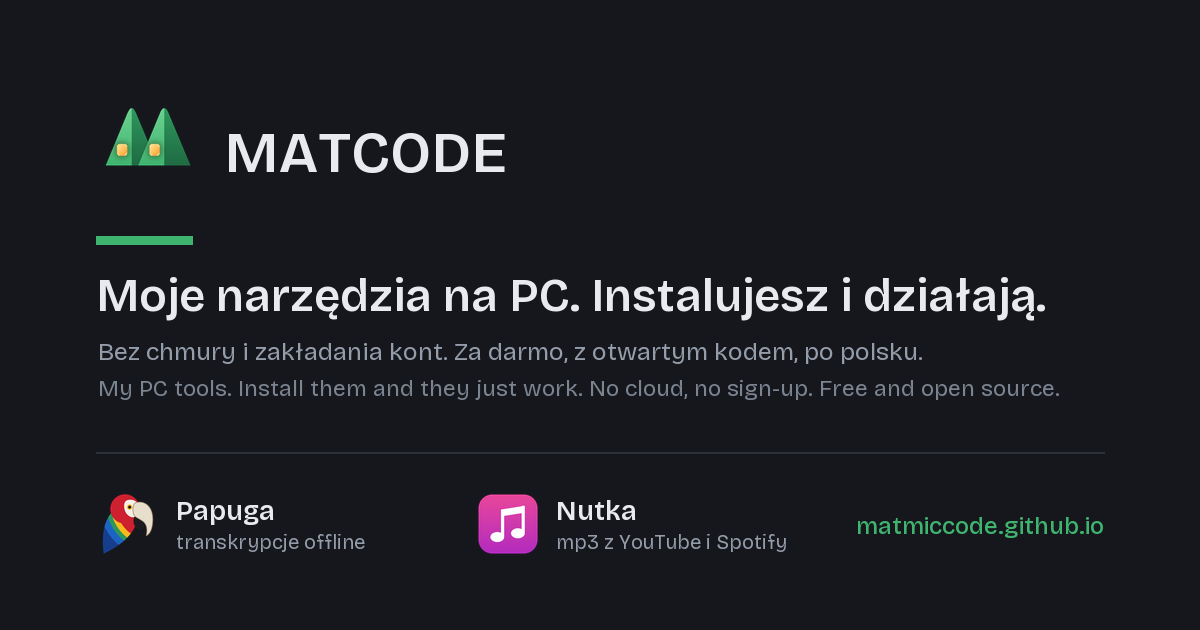
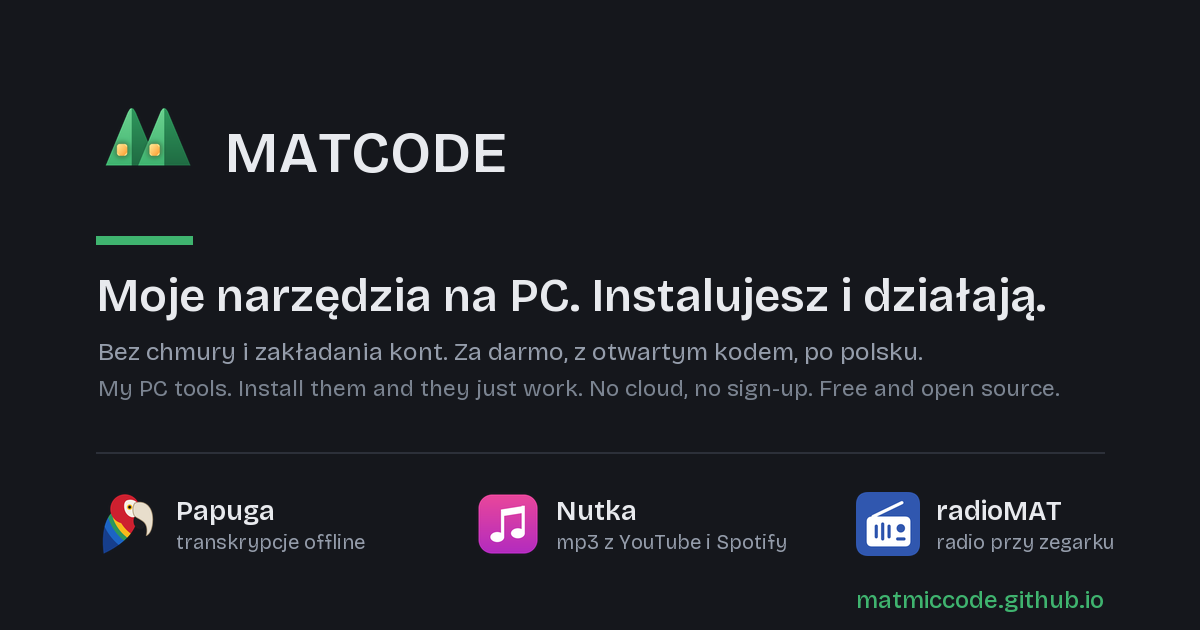
Dodaj radioMAT do katalogu i okladek MATCODE

Changed region(s): [[0.7092, 0.7841, 0.925, 0.9048], [0.7092, 0.9349, 0.925, 0.9651]]

diff --git a/en/index.html b/en/index.html
@@ -81,6 +81,11 @@
           <a class="btn btn-quiet btn-sm" href="https://github.com/matmiccode/nutka/releases/latest" data-pobierz="nutka">Download</a>
         </div>
       </li>
+      <li class="program">
+        <img src="../img/radiomat-256.png" alt="" width="96" height="96">
+        <div><h3>radioMAT</h3><p>Polish radio in your Windows system tray. Three station shortcuts, a catalog and track titles.</p><p class="meta"><span data-wersja="radiomat-app"></span>Windows 11 x64 · MIT · PL/EN</p></div>
+        <div class="akcje"><a class="btn btn-primary btn-sm" href="../radiomat-app/en/">Program website</a><a class="btn btn-quiet btn-sm" href="https://github.com/matmiccode/radiomat-app/releases/latest" data-pobierz="radiomat-app">Download</a></div>
+      </li>
     </ul>
   </div>
 </section>
@@ -147,7 +152,7 @@
       if (!odp.ok) return;
       const dane = await odp.json();
       const wersja = String(dane.tag_name || "").replace(/^v/, "");
-      const plik = (dane.assets || []).find(z => /Setup\.exe$/i.test(z.name));
+      const plik = (dane.assets || []).find(z => (/Setup\.exe$/i.test(z.name) || /^radioMAT-Setup-\d+\.\d+\.\d+-x64\.exe$/.test(z.name)));
       if (wersja) document.querySelectorAll(`[data-wersja="${repo}"]`).forEach(e => { e.textContent = "Version " + wersja + " · "; });
       if (plik) document.querySelectorAll(`[data-pobierz="${repo}"]`).forEach(e => { e.href = plik.browser_download_url; });
     } catch (_) { /* the page works without it */ }

diff --git a/index.html b/index.html
@@ -81,6 +81,11 @@
           <a class="btn btn-quiet btn-sm" href="https://github.com/matmiccode/nutka/releases/latest" data-pobierz="nutka">Pobierz</a>
         </div>
       </li>
+      <li class="program">
+        <img src="img/radiomat-256.png" alt="" width="96" height="96">
+        <div><h3>radioMAT</h3><p>Polskie radio przy zegarku Windows. Trzy skróty do stacji, katalog i tytuły utworów.</p><p class="meta"><span data-wersja="radiomat-app"></span>Windows 11 x64 · MIT · PL/EN</p></div>
+        <div class="akcje"><a class="btn btn-primary btn-sm" href="radiomat-app/">Strona programu</a><a class="btn btn-quiet btn-sm" href="https://github.com/matmiccode/radiomat-app/releases/latest" data-pobierz="radiomat-app">Pobierz</a></div>
+      </li>
     </ul>
   </div>
 </section>
@@ -147,7 +152,7 @@
       if (!odp.ok) return;
       const dane = await odp.json();
       const wersja = String(dane.tag_name || "").replace(/^v/, "");
-      const plik = (dane.assets || []).find(z => /Setup\.exe$/i.test(z.name));
+      const plik = (dane.assets || []).find(z => (/Setup\.exe$/i.test(z.name) || /^radioMAT-Setup-\d+\.\d+\.\d+-x64\.exe$/.test(z.name)));
       if (wersja) document.querySelectorAll(`[data-wersja="${repo}"]`).forEach(e => { e.textContent = "Wersja " + wersja + " · "; });
       if (plik) document.querySelectorAll(`[data-pobierz="${repo}"]`).forEach(e => { e.href = plik.browser_download_url; });
     } catch (_) { /* strona działa bez tego */ }

diff --git a/marka/generuj.py b/marka/generuj.py
@@ -148,13 +148,14 @@ def okladka():
     d.line((96, 356, W - 96, 356), fill=LINIA, width=2)
     x = 96
     for plik, nazwa, opis in (("papuga-256.png", "Papuga", "transkrypcje offline"),
-                              ("nutka-256.png", "Nutka", "mp3 z YouTube i Spotify")):
+                              ("nutka-256.png", "Nutka", "mp3 z YouTube i Spotify"),
+                              ("radiomat-256.png", "radioMAT", "radio przy zegarku")):
         ik = Image.open(IMG / plik).convert("RGBA").resize((72, 72), Image.LANCZOS)
         im.alpha_composite(ik, (x, 392))
         d.text((x + 90, 394), nazwa, font=kroj(30, "SemiBold"), fill=TEKST)
         d.text((x + 90, 434), opis, font=kroj(23, "Regular"), fill=SZARY)
         x += 420
-    d.text((W - 96, 418), "matmiccode.github.io", font=kroj(26, "Medium"), fill=ZIELEN, anchor="rm")
+    d.text((W - 96, 480), "matmiccode.github.io", font=kroj(26, "Medium"), fill=ZIELEN, anchor="rm")
     im = im.convert("RGB")
     im.save(TU / "matcode-okladka-1500x500.png", optimize=True)
     im.resize((1920, 640), Image.LANCZOS).save(TU / "matcode-okladka-1920x640.png", optimize=True)
@@ -172,16 +173,17 @@ def okladka_4x1():
     d.text((120, 184), HASLO_PL, font=kroj(56, "SemiBold"), fill=TEKST)
     d.text((122, 268), HASLO_PL_2, font=kroj(30, "Regular"), fill=SZARY)
     d.text((122, 314), HASLO_EN, font=kroj(28, "Regular"), fill=SZARY_EN)
-    d.line((1500, 160, 1500, 340), fill=LINIA, width=2)
+    d.line((1500, 160, 1500, 430), fill=LINIA, width=2)
     x, y = 1560, 160
     for plik, nazwa, opis in (("papuga-256.png", "Papuga", "transkrypcje offline"),
-                              ("nutka-256.png", "Nutka", "mp3 z YouTube i Spotify")):
+                              ("nutka-256.png", "Nutka", "mp3 z YouTube i Spotify"),
+                              ("radiomat-256.png", "radioMAT", "radio przy zegarku")):
         ik = Image.open(IMG / plik).convert("RGBA").resize((64, 64), Image.LANCZOS)
         im.alpha_composite(ik, (x, y))
         d.text((x + 80, y + 2), nazwa, font=kroj(28, "SemiBold"), fill=TEKST)
         d.text((x + 80, y + 38), opis, font=kroj(21, "Regular"), fill=SZARY)
         y += 96
-    d.text((W - 110, 372), "matmiccode.github.io", font=kroj(26, "Medium"), fill=ZIELEN, anchor="rm")
+    d.text((W - 110, 452), "matmiccode.github.io", font=kroj(26, "Medium"), fill=ZIELEN, anchor="rm")
     im.convert("RGB").save(TU / "matcode-okladka-2000x500.png", optimize=True)
 
 
@@ -215,13 +217,14 @@ def og_obrazek():
     d.line((96, 452, W - 96, 452), fill=LINIA, width=2)
     x = 96
     for plik, nazwa, opis in (("papuga-256.png", "Papuga", "transkrypcje offline"),
-                              ("nutka-256.png", "Nutka", "mp3 z YouTube i Spotify")):
+                              ("nutka-256.png", "Nutka", "mp3 z YouTube i Spotify"),
+                              ("radiomat-256.png", "radioMAT", "radio przy zegarku")):
         ik = Image.open(IMG / plik).convert("RGBA").resize((64, 64), Image.LANCZOS)
         im.alpha_composite(ik, (x, 492))
         d.text((x + 80, 494), nazwa, font=kroj(27, "SemiBold"), fill=TEKST)
         d.text((x + 80, 530), opis, font=kroj(20, "Regular"), fill=SZARY)
         x += 380
-    d.text((W - 96, 526), "matmiccode.github.io", font=kroj(24, "Medium"), fill=ZIELEN, anchor="rm")
+    d.text((W - 96, 600), "matmiccode.github.io", font=kroj(24, "Medium"), fill=ZIELEN, anchor="rm")
     im.convert("RGB").save(IMG / "matcode-og.png", optimize=True)
 
 

diff --git a/RAMA.md b/RAMA.md
@@ -180,3 +180,4 @@ Nowy program: dopisać go do okładki (`generuj.py`, lista ikon) i wygenerować 
 |---|---|---|---|
 | Papuga – transkrypcje offline | `matmiccode/papuga` | https://matmiccode.github.io/papuga/ | pasy piór ary (`--pioro-1..4`), pokaz transkrypcji |
 | Nutka – mp3 z YouTube i Spotify | `matmiccode/nutka` | https://matmiccode.github.io/nutka/ | barwy ikony róż→fiolet (`--nuta-1..3`, pasek `.nuty`, własny `--accent`), pokaz: wpisany tytuł zamienia się w mp3; instrukcja `instrukcja.html` na tej samej ramie, kopiowana obok exe z migawką `matcode.css` |
+| radioMAT – polskie radio przy zegarku | `matmiccode/radiomat-app` | https://matmiccode.github.io/radiomat-app/ | niebieski akcent #3057AF, pokaz wyboru stacji, instrukcja PL/EN |
